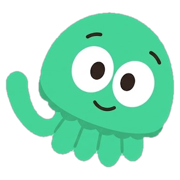
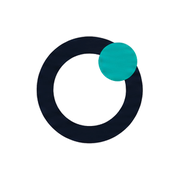
Replace jellyfish with random Medisense characters and refresh brand
- Characters (8 cutouts) replace the jellyfish; one is picked at load and a different one on every new chat
- New hop animation while the model is working; no backdrop circle behind the icon
- Faster greeting animation on the new chat page
- Ring logo mark for the collapsed sidebar, favicon and apple-touch-icon
- Minimal login page: mark, wordmark and a single sign-in button

diff --git a/frontend/src/App.jsx b/frontend/src/App.jsx
@@ -8,6 +8,7 @@ import {Icon} from '@iconify/react';
 import {AgentCreate} from './AgentCreate';
 import {Jelly} from './Jelly';
 import {Mascot} from './Mascot';
+import {shuffleCharacter} from './characters';
 import {MOCK,PREVIEW,signInWithGoogle,signOut as fbSignOut} from './firebase';
 import {useAuth} from './useAuth';
 import {api} from './api';
@@ -59,7 +60,7 @@ const {me,authError,checking,setAuthError}=useAuth({onSignedIn:m=>{setAdmin(m.ro
 const roleLabel=me?({admin:'管理員',builder:'建置者',user:'員工'}[me.role]||me.role):(admin?'管理員':'員工'),displayName=me?.name||'Paggie',accountEmail=me?.email||'paggie@example.invalid';
 const inAdmin=adminPages.includes(page);
 const [creatingAgent,setCreatingAgent]=useState(false),[sharingAgent,setSharingAgent]=useState(null);
-function go(p){setCreatingAgent(false);if(adminPages.includes(p)&&!admin){notify('此功能僅限管理員示範視角');return}setAccountMenu(false);if(p==='新對話'){setAttachments([]);setGreeting(pickGreeting());setNewChatProject(null);setLiveSession(null);setThreadId(crypto.randomUUID());setMessages([]);setRouteOpen(false);setPrompt('')}setPage(p);setFilter('');setSelectedAgent(null);setReport(null);setModal(null)}
+function go(p){setCreatingAgent(false);if(adminPages.includes(p)&&!admin){notify('此功能僅限管理員示範視角');return}setAccountMenu(false);if(p==='新對話'){shuffleCharacter();setAttachments([]);setGreeting(pickGreeting());setNewChatProject(null);setLiveSession(null);setThreadId(crypto.randomUUID());setMessages([]);setRouteOpen(false);setPrompt('')}setPage(p);setFilter('');setSelectedAgent(null);setReport(null);setModal(null)}
 function demoStep(n){setStep(n);setLogged(true);if(n<=4){setPage('新對話');setModel(n===1?'Cloud':'Auto');setPrompt(n===2?'請用一句話說明什麼是院內知識庫。':n===3?'請整理合成個案：姓名「測試病人甲」、病歷號 DEMO-000123 的交班格式。':n===4?'請查詢院內臨床指引的文件適用範圍與版本管理流程。':'');}if(n===0)setLogged(false);if(n===5){setPage('稽核記錄');setAdmin(true)}if(n===6){setPage('Agent Hub');setSelectedAgent(agents[0]);setAgentName(agents[0].name);setAgentTab('發布流程')}}
 const [liveSession,setLiveSession]=useState(null);
 const toGroup=m=>['fast','reasoning','budget','sovereign'].includes(m)?m:/auto/i.test(m)?'auto':/fast|flash/i.test(m)?'fast':/budget/i.test(m)?'budget':/院內|on-?prem|sovereign/i.test(m)?'sovereign':'reasoning';
@@ -162,7 +163,7 @@ const Badge=({children})=><span className="badge">{children}</span>;
 function openAgent(a){setSelectedAgent(a);setAgentName(a.name);setAgentModel(a.model);setAgentTab('設定');setTested(false);setSandboxReply(false)}
 function updateAgent(status){setAgents(a=>a.map(x=>x.name===selectedAgent.name?{...x,name:agentName,model:agentModel,status}:x));setSelectedAgent(a=>({...a,name:agentName,model:agentModel,status}));log('Agent '+status,agentModel,'內部','發布治理模擬',agentName);notify(`Agent 已${status==='待審核'?'送出審核':status}（模擬）`)}
 const composer=<ChatComposer prompt={prompt} setPrompt={setPrompt} send={send} busy={busy} model={model} setModel={setModel} knowledge={knowledge} setKnowledge={setKnowledge} agents={MOCK?agents:chatAgents} activeAgent={activeAgent} setActiveAgent={setActiveAgent} onConnectors={()=>go('Connectors')} onHub={()=>go('Agent Hub')} notify={notify} agentProfile={agentProfile} attachments={attachments} onAttach={addAttachments} onRemoveAttachment={removeAttachment} live={!MOCK} webOn={webSearch} onWeb={MOCK?undefined:setWebSearch} webLocked={!MOCK&&!features?.web_search} voiceOn={!MOCK&&!!features?.voice_input} options={MOCK?undefined:modelOpts||buildOptions([])}/>;
-return <><div style={{'--side-w':sideW+'px'}} className={'shell '+(collapsed?'collapsed ':'')+(page!=='新對話'?'card-theme ':'')+(compact?'compact-ui':'')}><SideResizer width={sideW} setWidth={setSideW}/><aside><div className={'quick-brand'+(collapsed?' mini':'')}>{collapsed?<button className="brand-mini" aria-label="展開側邊欄" title="展開側邊欄" onClick={()=>setCollapsed(false)}><span className="bm-jelly"><Jelly size={28} circle={false}/></span><span className="bm-open"><SidebarSimple size={22}/></span></button>:<><button className="icon-btn" aria-label="收合側邊欄" onClick={()=>setCollapsed(true)}><SidebarSimple size={19}/></button><button className="brand-link" aria-label="Medisense，開啟新對話" onClick={()=>go('新對話')}><b>Medisense</b></button></>}</div><div className="brand"><Atom size={28} weight="bold"/><b>Medisense</b><button className="icon-btn collapse" aria-label="收合側邊欄" onClick={()=>setCollapsed(!collapsed)}><SidebarSimple size={20}/></button></div>{inAdmin&&<div className="admin-side-head"><button className="admin-back" onClick={()=>go('新對話')}><ArrowLeft size={16}/>返回對話</button></div>}<nav>{(inAdmin?adminGroups.map(g=>g.title==='治理'&&!MOCK?{...g,items:[...g.items,...adminNav]}:g):navGroups).map(g=>!inAdmin&&g.title==='Agent Hub'&&!MOCK&&me&&me.role!=='user'?{...g,items:[...g.items,['沙盒測試','Sandbox',Flask]]}:g).map((g,i)=><div className={'nav-group'+(inAdmin?'':' flat')} key={i}>{g.title&&inAdmin&&<div className="nav-group-title">{g.title}</div>}{g.items.map(([label,key,I])=><button title={label} key={key} className={page===key?'active':''} onClick={()=>go(key)}><I size={18}/><span>{label}</span></button>)}</div>)}</nav>{!inAdmin&&<Recents chats={recentChats} projects={projects} actions={recents} activeId={page==='新對話'?(liveSession||threadId):null} activeProject={page==='專案'?projectId:null} collapsed={collapsed} onOpen={c=>{setNewChatProject(null);openRecent(c)}} onNewChat={()=>go('新對話')} onOpenProject={p=>{setProjectId(p.id);go('專案')}}/>}<div className="aside-bottom"><button className="sidebar-settings" onClick={()=>setModal({type:'preferences'})}><Gear size={18}/><span className="sidebar-settings-label">設定</span></button><button className="profile" onClick={()=>setModal({type:'account'})}><span className="avatar">P</span><span><b>{displayName}</b><small>{me?.department?me.department+' · ':'資訊室 · '}{roleLabel}</small></span><DotsThree size={22}/></button></div></aside><div className="main-shell"><header className="topbar quick-topbar"><div className="top-actions"><div className="account-dropdown"><button className="account-trigger" aria-expanded={accountMenu} onClick={()=>setAccountMenu(!accountMenu)}>{accountEmail}<CaretDown size={13}/></button>{accountMenu&&<><button className="menu-dismiss" aria-label="關閉帳戶選單" onClick={()=>setAccountMenu(false)}/><div className="quick-account-menu"><div className="account-info"><small>帳戶名稱</small><b>{accountEmail}</b></div>{admin&&<button onClick={()=>go('管理帳戶')}>管理帳戶</button>}<button onClick={()=>{setAccountMenu(false);setModal({type:'add-account'})}}><Plus size={16}/>新增另一個帳戶</button><button onClick={()=>{setAccountMenu(false);setModal({type:'language'})}}><Users size={16}/>{language}<CaretRight className="push" size={14}/></button><div className="menu-separator"/><button onClick={()=>{setAccountMenu(false);setModal({type:'preferences'})}}><Gear size={16}/>偏好設定</button><button onClick={()=>{setAccountMenu(false);if(MOCK)setLogged(false);else fbSignOut()}}><SignOut size={16}/>登出</button></div></>}</div></div></header>{demo&&<div className="demo-bar"><span>11/5 Demo</span><select aria-label="示範步驟" value={step} onChange={e=>demoStep(+e.target.value)}>{demoNames.map((n,i)=><option value={i} key={n}>{i}. {n}</option>)}</select><span className="muted">{step===3?'送出合成個案，查看路由明細':step===2?'送出簡單問題後，再試「完整分析院內 AI 導入策略」':step===6?'沙盒測試 → 送審 → 管理員核准 → 發布':'依畫面操作，所有流程皆為示範'}</span><button disabled={step===6} onClick={()=>demoStep(step+1)}>下一幕<ArrowRight size={17}/></button><button aria-label="關閉導覽" onClick={()=>setDemo(false)}><X/></button></div>}
+return <><div style={{'--side-w':sideW+'px'}} className={'shell '+(collapsed?'collapsed ':'')+(page!=='新對話'?'card-theme ':'')+(compact?'compact-ui':'')}><SideResizer width={sideW} setWidth={setSideW}/><aside><div className={'quick-brand'+(collapsed?' mini':'')}>{collapsed?<button className="brand-mini" aria-label="展開側邊欄" title="展開側邊欄" onClick={()=>setCollapsed(false)}><span className="bm-jelly"><img className="brand-mark" src="/brand/logo-mark.png" alt="Medisense"/></span><span className="bm-open"><SidebarSimple size={22}/></span></button>:<><button className="icon-btn" aria-label="收合側邊欄" onClick={()=>setCollapsed(true)}><SidebarSimple size={19}/></button><button className="brand-link" aria-label="Medisense，開啟新對話" onClick={()=>go('新對話')}><b>Medisense</b></button></>}</div><div className="brand"><Atom size={28} weight="bold"/><b>Medisense</b><button className="icon-btn collapse" aria-label="收合側邊欄" onClick={()=>setCollapsed(!collapsed)}><SidebarSimple size={20}/></button></div>{inAdmin&&<div className="admin-side-head"><button className="admin-back" onClick={()=>go('新對話')}><ArrowLeft size={16}/>返回對話</button></div>}<nav>{(inAdmin?adminGroups.map(g=>g.title==='治理'&&!MOCK?{...g,items:[...g.items,...adminNav]}:g):navGroups).map(g=>!inAdmin&&g.title==='Agent Hub'&&!MOCK&&me&&me.role!=='user'?{...g,items:[...g.items,['沙盒測試','Sandbox',Flask]]}:g).map((g,i)=><div className={'nav-group'+(inAdmin?'':' flat')} key={i}>{g.title&&inAdmin&&<div className="nav-group-title">{g.title}</div>}{g.items.map(([label,key,I])=><button title={label} key={key} className={page===key?'active':''} onClick={()=>go(key)}><I size={18}/><span>{label}</span></button>)}</div>)}</nav>{!inAdmin&&<Recents chats={recentChats} projects={projects} actions={recents} activeId={page==='新對話'?(liveSession||threadId):null} activeProject={page==='專案'?projectId:null} collapsed={collapsed} onOpen={c=>{setNewChatProject(null);openRecent(c)}} onNewChat={()=>go('新對話')} onOpenProject={p=>{setProjectId(p.id);go('專案')}}/>}<div className="aside-bottom"><button className="sidebar-settings" onClick={()=>setModal({type:'preferences'})}><Gear size={18}/><span className="sidebar-settings-label">設定</span></button><button className="profile" onClick={()=>setModal({type:'account'})}><span className="avatar">P</span><span><b>{displayName}</b><small>{me?.department?me.department+' · ':'資訊室 · '}{roleLabel}</small></span><DotsThree size={22}/></button></div></aside><div className="main-shell"><header className="topbar quick-topbar"><div className="top-actions"><div className="account-dropdown"><button className="account-trigger" aria-expanded={accountMenu} onClick={()=>setAccountMenu(!accountMenu)}>{accountEmail}<CaretDown size={13}/></button>{accountMenu&&<><button className="menu-dismiss" aria-label="關閉帳戶選單" onClick={()=>setAccountMenu(false)}/><div className="quick-account-menu"><div className="account-info"><small>帳戶名稱</small><b>{accountEmail}</b></div>{admin&&<button onClick={()=>go('管理帳戶')}>管理帳戶</button>}<button onClick={()=>{setAccountMenu(false);setModal({type:'add-account'})}}><Plus size={16}/>新增另一個帳戶</button><button onClick={()=>{setAccountMenu(false);setModal({type:'language'})}}><Users size={16}/>{language}<CaretRight className="push" size={14}/></button><div className="menu-separator"/><button onClick={()=>{setAccountMenu(false);setModal({type:'preferences'})}}><Gear size={16}/>偏好設定</button><button onClick={()=>{setAccountMenu(false);if(MOCK)setLogged(false);else fbSignOut()}}><SignOut size={16}/>登出</button></div></>}</div></div></header>{demo&&<div className="demo-bar"><span>11/5 Demo</span><select aria-label="示範步驟" value={step} onChange={e=>demoStep(+e.target.value)}>{demoNames.map((n,i)=><option value={i} key={n}>{i}. {n}</option>)}</select><span className="muted">{step===3?'送出合成個案，查看路由明細':step===2?'送出簡單問題後，再試「完整分析院內 AI 導入策略」':step===6?'沙盒測試 → 送審 → 管理員核准 → 發布':'依畫面操作，所有流程皆為示範'}</span><button disabled={step===6} onClick={()=>demoStep(step+1)}>下一幕<ArrowRight size={17}/></button><button aria-label="關閉導覽" onClick={()=>setDemo(false)}><X/></button></div>}
 <main className={page==='新對話'?'chat-page':'card-page'}>
 {page==='管理帳戶'&&admin&&<AdminHome groups={adminGroups.map(g=>g.title==='治理'&&!MOCK?{...g,items:[...g.items,...adminNav]}:g)} go={go} account={accountEmail} orgName={accountName}/>}
 {MOCK&&page==='Model Routing'&&admin&&<Routing config={routing} onLog={log} onPublish={value=>{setRouting(value);log('Routing 設定發布','—','內部','發布至原型工作階段',`版本 v${value.version}`);notify('已發布示範路由設定，可到新對話測試')}}/>}
@@ -185,7 +186,7 @@ return <><div style={{'--side-w':sideW+'px'}} className={'shell '+(collapsed?'co
 {!MOCK&&<Suspense fallback={<p className="muted small">載入中…</p>}>{page==='Agent Hub'&&<AgentsApp key="hub" kind="agent" me={me} notify={notify} onChat={a=>{setActiveAgent(a.name);go('新對話')}}/>}{page==='Flows'&&<AgentsApp key="flows" kind="flow" me={me} notify={notify} onChat={()=>{}}/>}{page==='Sandbox'&&<BkApp key="sandbox" me={me} initial="/sandbox" go={go} notify={notify}/>}{page==='Connectors'&&<ConnectorsPage me={me} notify={notify}/>}{page==='空間'&&<SpacesPage me={me} notify={notify}/>}{page==='Skill'&&<SkillsPage me={me} notify={notify}/>}{page==='Schedule'&&<SchedulesPage me={me} notify={notify}/>}{page==='Groups'&&<GroupsPage me={me} notify={notify}/>}{page==='Model'&&<ModelRegistryPage me={me} notify={notify}/>}{page==='Model Routing'&&<RouterPage me={me} notify={notify}/>}{page==='Security Control'&&<SecurityLive me={me} notify={notify}/>}{page==='稽核記錄'&&<AuditLive me={me} notify={notify}/>}{page==='Users'&&<UsersPage me={me} notify={notify} goAudit={e=>{go('稽核記錄')}}/>}{page==='Roles'&&<RolesPage me={me} notify={notify}/>}{page==='Monitoring'&&<BkApp key="monitoring" me={me} initial="/monitoring" go={go} notify={notify}/>}</Suspense>}{MOCK&&page==='Skill'&&<SkillPage/>}{MOCK&&page==='Schedule'&&<SchedulePage/>}{MOCK&&page==='Model'&&<ModelPage/>}{MOCK&&page==='Security Control'&&<SecurityPage/>}{MOCK&&page==='Connectors'&&<><div className="page-heading"><h1><Plugs/>Integrations</h1><Btn primary onClick={()=>setModal({type:'connector',name:'Remote MCP'})}><Plus/>新增連接器</Btn></div><p className="subtitle">連接常用工具與平台，在授權範圍內完成工作。</p><section className="integration-intro"><div><span className="intro-label">連接你的工作</span><h2>工具相連，協作更自然。</h2><p>將訊息、文件與院內系統整合至同一個工作入口。</p><button className="btn primary" onClick={()=>{setConnectorFilter('全部');setFilter('');notify('已顯示所有連接器')}}>探索所有連接器</button></div><img className="integration-banner-art" src="/assets/medisense-integrations-banner.png" alt="Medisense 原子標誌串連文件、訊息、行事曆與醫療系統"/></section><div className="toolbar connector-toolbar"><Search value={filter} onChange={setFilter} placeholder="搜尋連接器"/><div className="tabs">{['全部','已授權','待核准'].map(t=><button key={t} className={connectorFilter===t?'selected':''} onClick={()=>setConnectorFilter(t)}>{t}</button>)}</div></div><div className="section-heading"><h2>工作工具與院內系統</h2><span className="muted small">選擇卡片以檢視授權與資料範圍</span></div><div className="connector-list">{connectorNames.filter(n=>n.toLowerCase().includes(filter.toLowerCase())&&(connectorFilter==='已授權'?connections[n]?.includes('已授權'):connectorFilter==='待核准'?connections[n]?.includes('待'):true)).map(n=><button key={n} className="connector-row" onClick={()=>setModal({type:'connector',name:n})}><span className="connector-icon">{brandIcons[n]?<Icon icon={brandIcons[n]} width={31} height={31}/>:n==='HIS 核心系統'?<House size={29}/>:n==='Webhook'?<Lightning size={29}/>:<Plugs size={29}/>}</span><span><h3>{n}</h3><p>{descs[connectorNames.indexOf(n)]}</p><small className={connections[n]?'violet':'muted'}>{connections[n]||'尚未授權'}</small></span>{connections[n]?<CaretRight className="push"/>:<Plus className="push"/>}</button>)}</div><div className="notice"><ShieldCheck/>所有連接狀態均為模擬，尚未取得外部系統授權或存取任何資料。</div></>}
 {MOCK&&page==='稽核記錄'&&admin&&<><div className="page-heading"><h1><ClockCounterClockwise/>稽核記錄</h1><Btn primary disabled={!admin} onClick={exportAudit}><Download/>匯出 CSV</Btn></div><p className="subtitle">追溯每一次操作、模型選擇與資料處置。</p>{!admin?<section className="panel access"><Lock size={36}/><h2>此頁面需要稽核權限</h2><p>切換管理員示範視角，以查看合成稽核資料。</p><Btn primary onClick={()=>setAdmin(true)}>切換管理員示範視角</Btn></section>:<><div className="audit-overview"><button className="panel audit-card" onClick={()=>{setEventFilter('全部事件');setLevelFilter('全部分級')}}><span className="tile"><ClockCounterClockwise/></span><span className="muted small">使用活動</span><strong>{audit.length}</strong><small>合成事件紀錄</small></button><button className="panel audit-card" onClick={()=>setEventFilter('模型呼叫')}><span className="tile"><Lightning/></span><span className="muted small">模型呼叫</span><strong>{audit.filter(a=>a.event==='模型呼叫').length}</strong><small>檢視路由決策</small></button><button className="panel audit-card" onClick={()=>setLevelFilter('敏感')}><span className="tile"><ShieldCheck/></span><span className="muted small">敏感資料處置</span><strong>{audit.filter(a=>a.level==='敏感').length}</strong><small>示範偵測與地端路由</small></button></div><div className="audit-storage panel"><span className="tile"><ShieldCheck/></span><div><b>地端 Audit Log</b><p>示範儲存位置：院內日誌伺服器 · 尚未實際連線</p></div><button className="text-button push" onClick={()=>setModal({type:'retention'})}>完整性與留存政策<CaretRight/></button></div><div className="audit-filters"><Search value={filter} onChange={setFilter} placeholder="搜尋使用者、模型或事件"/><input aria-label="稽核日期" type="date" value={dateFilter} onChange={e=>setDateFilter(e.target.value)}/><select aria-label="事件篩選" value={eventFilter} onChange={e=>setEventFilter(e.target.value)}>{['全部事件',...new Set(audit.map(a=>a.event))].map(n=><option key={n}>{n}</option>)}</select><select aria-label="科別篩選" value={deptFilter} onChange={e=>setDeptFilter(e.target.value)}>{['全部科別','資訊室','藥劑部','心臟科'].map(n=><option key={n}>{n}</option>)}</select><select aria-label="分級篩選" value={levelFilter} onChange={e=>setLevelFilter(e.target.value)}>{['全部分級','內部','敏感'].map(n=><option key={n}>{n}</option>)}</select></div><div className="table-header"><span>{filteredAudit.length} 筆合成紀錄</span><span><Lock size={14}/>識別資料已遮罩</span></div><div className="panel table-wrap"><table><thead><tr>{['時間 / 日期','使用者 / 科別','事件','資料分級','模型','內容摘要',''].map((n,i)=><th key={i}>{n}</th>)}</tr></thead><tbody>{filteredAudit.map(a=><tr key={a.id} onClick={()=>setModal({type:'audit',data:a})}><td>{a.time}<small>{date}</small></td><td>{a.user}<small>{a.dept}</small></td><td>{a.event}</td><td><Badge>{a.level}</Badge></td><td>{a.model}</td><td className="truncate">{a.query}</td><td><CaretRight/></td></tr>)}</tbody></table>{!filteredAudit.length&&<div className="empty">沒有符合條件的紀錄。請調整篩選或開始一段示範對話。</div>}</div><p className="muted small">稽核來源：瀏覽器記憶體 · 重新整理後重置。未寫入地端日誌、未驗證完整性或留存政策。</p></>}</>}
 </main></div></div>
-{!logged&&<div className="login-screen"><div className="login-brand"><Jelly size={34} circle={false}/>Medisense</div><div className="login-content"><Badge>Enterprise AI Employee Portal</Badge><h1>讓專業，專注於更重要的事。</h1><p>你的模型、知識與工作，在同一個安全治理入口。</p><section className="login-box">{MOCK?<><h2>歡迎，Paggie</h2><p>使用院內帳號，開啟你的 AI 工作空間。</p><div className="identity"><span className="avatar">P</span><div><b>Paggie</b><small>資訊室 · 員工 · 合成身分</small></div></div><Btn primary onClick={()=>{setLogged(true);log('示範登入');if(demo&&step===0)notify('身分已載入，點選下一幕開始示範')}}><Lock/>透過院內 SSO 登入（示範）<ArrowRight/></Btn><small>此為登入模擬，未連接 AD / SSO。</small></>:<><h2>歡迎使用 Medisense</h2><p>使用院內 Google Workspace 帳號登入。</p>{checking?<p className="muted small">正在確認身分…</p>:<Btn primary onClick={()=>{setAuthError('');signInWithGoogle().catch(e=>setAuthError(e.message))}}><Lock/>使用 Google 登入<ArrowRight/></Btn>}{authError&&<p className="login-error" role="alert">{authError}</p>}<small>身分驗證由 Firebase Auth 處理；權限由平台後端依角色決定。</small></>}</section></div><span className="login-foot">示範環境 · 僅使用合成資料 · 未連接正式系統</span></div>}
+{!logged&&<div className="lg-screen"><div className="lg-center"><div className="lg-brand"><img className="lg-mark" src="/brand/logo-mark.png" alt=""/><b>Medisense</b></div>{MOCK?<Btn primary onClick={()=>{setLogged(true);log('示範登入');if(demo&&step===0)notify('身分已載入，點選下一幕開始示範')}}>登入<ArrowRight/></Btn>:checking?<p className="lg-note">正在確認身分…</p>:<Btn primary onClick={()=>{setAuthError('');signInWithGoogle().catch(e=>setAuthError(e.message))}}>登入<ArrowRight/></Btn>}{authError&&<p className="login-error" role="alert">{authError}</p>}</div></div>}
 {modal&&<div className="modal-backdrop" onMouseDown={e=>{if(e.target===e.currentTarget)setModal(null)}}><section className={'modal '+(['space','connector'].includes(modal.type)?'wide':'')} role="dialog" aria-modal="true" aria-label="詳細內容"><button className="modal-close icon-btn" aria-label="關閉視窗" onClick={()=>setModal(null)}><X size={22}/></button>
 {modal.type==='reply'&&<><Badge>模擬回覆</Badge><h2>{modal.name}</h2><p className="muted">{modal.name.includes('心臟')?'下午會議資料已更新，請確認討論重點。':'請確認 11/5 課程參加名單。'}</p><textarea autoFocus rows={5} placeholder="輸入回覆…" value={reply} onChange={e=>setReply(e.target.value)}/><div className="modal-actions"><Btn onClick={()=>setReply('收到，已確認資料，謝謝。')}>插入建議回覆</Btn><Btn primary disabled={!reply.trim()} onClick={()=>{setReplied(a=>[...new Set([...a,modal.name])]);log('訊息回覆','—','內部','模擬回覆，未對外傳送',modal.name);setModal(null);notify('已完成模擬回覆，未傳送郵件或訊息')}}>送出模擬回覆<ArrowRight/></Btn></div></>}
 {modal.type==='account'&&<><h2>帳號設定</h2><div className="identity"><span className="avatar">P</span><div><b>Paggie</b><small>資訊室 · paggie@example.invalid</small></div></div><p>身分來源：院內 AD（模擬）</p><p>權限角色：{admin?'管理員':'員工'} · RBAC / ABAC 未實際驗證</p>{admin&&<Btn onClick={()=>go('管理帳戶')}>管理帳戶</Btn>}<Btn onClick={()=>setModal({type:'preferences'})}>偏好設定</Btn><Btn onClick={()=>{setLogged(false);setModal(null)}}><SignOut/>登出</Btn></>}

diff --git a/frontend/src/welcome.css b/frontend/src/welcome.css
@@ -1,37 +1,18 @@
-/* New-conversation opening: jellyfish peeks, blinks twice, brows hop twice, swims to the middle and smiles; while the greeting
-   blurs in letter by letter (Qwen-like), starting on the same frame as the jellyfish. The composer is there from the first frame. Total ~3.4s. */
-.ji{position:relative;display:inline-block;border-radius:50%;background:#f4f4f4;overflow:hidden;flex-shrink:0}
-.ji-fig{position:absolute;inset:8%;display:block;animation:ji-swim 4s cubic-bezier(.4,0,.2,1) both}
-.ji-float{position:absolute;inset:0;display:block;animation:ji-bob 3.2s ease-in-out 4.1s infinite}
-.ji-float img,.ji-float svg{position:absolute;inset:0;width:100%;height:100%;user-select:none;pointer-events:none}
-.ji-float img{object-fit:contain}
-.ji-lid{transform-box:fill-box;transform-origin:50% 0;transform:scaleY(0);animation:ji-blink .34s ease-in-out .95s 2 both}
-.ji-brows{animation:ji-hop .38s cubic-bezier(.3,1.6,.5,1) 1.95s 2 both}
-.ji-mouth{stroke-dasharray:1 1;stroke-dashoffset:0;animation:ji-smile .7s cubic-bezier(.5,0,.25,1) 3.5s both}
-@keyframes ji-swim{0%{transform:translateY(85%)}14%{transform:translateY(42%)}58%{transform:translateY(42%)}68%{transform:translateY(46%)}86%{transform:translateY(-5%)}100%{transform:translateY(0)}}
-@keyframes ji-blink{0%,100%{transform:scaleY(0)}45%,60%{transform:scaleY(1.04)}}
-@keyframes ji-hop{0%,100%{transform:translateY(0)}45%{transform:translateY(-9px)}}
-@keyframes ji-smile{from{stroke-dashoffset:0}to{stroke-dashoffset:-1}}
-@keyframes ji-bob{0%,100%{transform:translateY(0)}50%{transform:translateY(-3.5%)}}
-
+/* New-conversation opening: the character pops in while the greeting blurs in letter by letter (Qwen-like). */
 .wl-title{display:flex;justify-content:center;flex-wrap:wrap}
-.wl-char{display:inline-block;white-space:pre;opacity:0;animation:wl-char .8s cubic-bezier(.2,.7,.2,1) calc(var(--i)*150ms) both}
-@keyframes wl-char{from{opacity:0;transform:translateY(16px);filter:blur(8px)}to{opacity:1;transform:none;filter:blur(0)}}
+.wl-char{display:inline-block;white-space:pre;opacity:0;animation:wl-char .4s cubic-bezier(.2,.7,.2,1) calc(var(--i)*35ms) both}
+@keyframes wl-char{from{opacity:0;transform:translateY(8px);filter:blur(4px)}to{opacity:1;transform:none;filter:blur(0)}}
 @media(prefers-reduced-motion:reduce){
-  .ji-fig,.ji-float,.ji-lid,.ji-brows,.wl-char{animation:none}
-  .ji-mouth{stroke-dashoffset:-1;animation:none}.wl-char{opacity:1}
+  .wl-char,.mcw-fig{animation:none}.wl-char{opacity:1}
 }
 
-/* ===== click: the jellyfish becomes a doctor / a nurse and jumps out of the circle (keyframes of the reference page) ===== */
+/* ===== today's character: pops in, bobs, hops when clicked ===== */
 .mcw{--s:clamp(.65px,.048828125vw,1px);--sz:calc(166*var(--s));position:relative;width:var(--sz);height:var(--sz);margin:0 auto;cursor:pointer;-webkit-tap-highlight-color:transparent;border-radius:50%}
 .mcw:focus-visible{outline:2px solid #239660;outline-offset:6px}
-.mcw>.ji{display:block;position:relative;z-index:1;background:transparent}
-.ji.settled .ji-fig,.ji.settled .ji-lid,.ji.settled .ji-brows{animation:none}.ji.settled .ji-mouth{stroke-dashoffset:-1;animation:none}.ji.settled .ji-float{animation-delay:0s}
-.mcw-circle{position:absolute;inset:0;border-radius:50%;background:#f4f4f4;transition:transform .5s,opacity .5s}
-.mcw[data-out=true] .mcw-circle{transform:scale(.85);opacity:.6}
-.mcw-fig{position:absolute;inset:calc(-8*var(--s));z-index:2;animation:mcw-jump .75s cubic-bezier(.2,.7,.3,1) both,mcw-outfloat 3s .75s ease-in-out infinite}
-.mcw-sprite{display:block;width:100%;height:100%;background-repeat:no-repeat;background-size:contain;background-position:center}
-@keyframes mcw-jump{0%{transform:translate(0,0) scale(1)}25%{transform:translateY(10px) scale(1.08,.88)}65%{transform:translate(22px,-75px) scale(1.25) rotate(-7deg)}100%{transform:translate(32px,-38px) scale(1.23) rotate(3deg)}}
-@keyframes mcw-outfloat{0%,100%{transform:translate(32px,-38px) scale(1.23) rotate(3deg)}50%{transform:translate(32px,-45px) scale(1.23) rotate(-3deg)}}
-@media(prefers-reduced-motion:reduce){.mcw-fig{animation:none;transform:translate(32px,-38px) scale(1.23)}}
+.mcw-fig{position:absolute;inset:0;display:flex;align-items:flex-end;justify-content:center;animation:mcw-pop .9s cubic-bezier(.2,.8,.3,1.2) both,mcw-bob 3.2s ease-in-out .9s infinite}
+.mcw-fig[data-hop=true]{animation:mcw-hop .6s cubic-bezier(.3,1.4,.5,1) both,mcw-bob 3.2s ease-in-out .6s infinite}
+.mcw-fig img{max-width:100%;max-height:100%;object-fit:contain;user-select:none;pointer-events:none;filter:drop-shadow(0 8px 10px rgba(60,80,120,.16))}
+@keyframes mcw-pop{0%{transform:translateY(40%) scale(.5);opacity:0}60%{opacity:1}100%{transform:none;opacity:1}}
+@keyframes mcw-hop{0%{transform:none}35%{transform:translateY(-22%) scale(.96,1.06) rotate(-4deg)}70%{transform:translateY(0) scale(1.06,.94)}100%{transform:none}}
+@keyframes mcw-bob{0%,100%{transform:translateY(0)}50%{transform:translateY(-4%)}}
 .welcome .mcw{margin-bottom:6px}

diff --git a/frontend/src/styles.css b/frontend/src/styles.css
@@ -262,21 +262,20 @@ h1,h2{letter-spacing:-.02em}
 .panel,.card-page .panel{border-color:var(--hair);border-radius:16px;box-shadow:none}
 .login-screen{background:#fbfbfb}.login-box{border-radius:22px;border-color:var(--hair);box-shadow:0 12px 40px #0000000a}
 
-/* The jellyfish: bell and tentacles are two layers split at the rim, so they can move separately */
+/* The Medisense character: a clean cutout, no backdrop */
 .jelly{display:inline-block;position:relative;flex-shrink:0;vertical-align:middle}
-.jelly-circle{border-radius:50%;background:#ececef}
-.jelly-body{position:absolute;inset:8%;display:block}
-.jelly:not(.jelly-circle) .jelly-body{inset:0}
+.jelly-circle{background:none}
+.jelly-body{position:absolute;inset:0;display:block}
 .jelly img{position:absolute;inset:0;width:100%;height:100%;object-fit:contain;user-select:none;pointer-events:none}
-.jelly-top{clip-path:inset(0 0 36% 0);transform-origin:50% 50%}
-.jelly-bottom{clip-path:inset(62% 0 0 0);transform-origin:50% 62%}
-.jelly.swim .jelly-body{animation:jelly-drift 2.4s ease-in-out infinite}
-.jelly.swim .jelly-top{animation:jelly-pulse 1.4s cubic-bezier(.45,0,.35,1) infinite}
-.jelly.swim .jelly-bottom{animation:jelly-sway 1.4s ease-in-out infinite}
-@keyframes jelly-drift{0%,100%{transform:translateY(7%) rotate(-5deg)}50%{transform:translateY(-8%) rotate(5deg)}}
-@keyframes jelly-pulse{0%{transform:scale(1,1)}28%{transform:scale(.9,1.1)}62%{transform:scale(1.06,.95)}100%{transform:scale(1,1)}}
-@keyframes jelly-sway{0%{transform:skewX(0) scaleY(1)}28%{transform:skewX(-9deg) scaleY(1.1)}62%{transform:skewX(9deg) scaleY(1.03)}100%{transform:skewX(0) scaleY(1)}}
-@media(prefers-reduced-motion:reduce){.jelly.swim .jelly-body,.jelly.swim .jelly-top,.jelly.swim .jelly-bottom{animation-duration:6s}}
+.jelly-top{transform-origin:50% 100%}
+/* while the model is working: the character hops with a squash on take-off and landing, over a soft shadow */
+.jelly.swim .jelly-body{inset:0 0 9% 0;animation:jelly-hop 1.1s cubic-bezier(.3,0,.4,1) infinite}
+.jelly.swim .jelly-top{animation:jelly-squash 1.1s ease-in-out infinite}
+.jelly.swim::after{content:'';position:absolute;left:22%;right:22%;bottom:0;height:8%;border-radius:50%;background:rgba(60,80,120,.16);animation:jelly-shadow 1.1s cubic-bezier(.3,0,.4,1) infinite}
+@keyframes jelly-hop{0%,100%{transform:translateY(0)}45%{transform:translateY(-16%)}}
+@keyframes jelly-squash{0%{transform:scale(1.07,.9)}18%{transform:scale(.95,1.07)}45%{transform:scale(1,1)}78%{transform:scale(1,1)}92%{transform:scale(1.07,.9)}100%{transform:scale(1.07,.9)}}
+@keyframes jelly-shadow{0%,100%{transform:scaleX(1);opacity:1}45%{transform:scaleX(.65);opacity:.5}}
+@media(prefers-reduced-motion:reduce){.jelly.swim .jelly-body,.jelly.swim .jelly-top,.jelly.swim::after{animation-duration:6s}}
 @media(max-width:800px){.welcome h1{font-size:30px}.welcome{padding-bottom:40px}}
 /* Account-management sidebar: its own header with a way back, separate from the workspace navigation */
 .admin-side-head{display:flex;flex-direction:column;gap:10px;padding:2px 2px 14px;margin-bottom:6px;border-bottom:1px solid #e6e6ea}

diff --git a/frontend/src/Jelly.jsx b/frontend/src/Jelly.jsx
@@ -1,32 +1,11 @@
 import React from 'react';
+import {useCharacter} from './characters';
 
-// The Medisense jellyfish. Two stacked copies of the same artwork, split at the bell's rim, so that
-// while the model is working the bell can pulse and the tentacles can sway independently (see .swim in styles.css).
-const SRC='/assets/medisense-jelly-square.png';
+// The Medisense character (a random one per page load, see characters.js), standing in for the old jellyfish.
+// While the model is working it bobs and squishes (see .swim in styles.css).
 export function Jelly({size=88,animated=false,circle=true,className=''}){
+  const CHARACTER=useCharacter();
   return <span className={`jelly${circle?' jelly-circle':''}${animated?' swim':''}${className?' '+className:''}`} style={{width:size,height:size}} aria-hidden="true">
-    <span className="jelly-body"><img className="jelly-bottom" src={SRC} alt="" draggable="false"/><img className="jelly-top" src={SRC} alt="" draggable="false"/></span>
-  </span>;
-}
-
-/* Opening animation for a new conversation. The artwork is one flat PNG, so the face is animated with an SVG laid over it
-   (same 360x360 box): body-coloured eyelids for the blinks, drawn eyebrows over patches that hide the painted ones,
-   and a patch over the painted smile that fades out at the end. Timeline: peek (half the head at the bottom of the
-   circle) -> 2 blinks -> 2 eyebrow hops -> swim to the middle -> smile. Plays once; reduced-motion shows the final pose. */
-const BODY='#44d497',INK='#2b2328';
-const BROW_L='M173 73 Q188 63 203 67',BROW_R='M300 103 Q316 112 320 127',MOUTH_WIPE='M181 203 Q210 228 239 205';  // covers the painted smile; its dash retracts left -> right like a swoosh
-export function JellyIntro({size=120,settled=false}){
-  return <span className={'ji'+(settled?' settled':'')} style={{width:size,height:size}} aria-hidden="true">
-    <span className="ji-fig"><span className="ji-float">
-      <img src={SRC} alt="" draggable="false"/>
-      <svg viewBox="0 0 360 360">
-        <path d={BROW_L} stroke={BODY} strokeWidth="13" strokeLinecap="round" fill="none"/>
-        <path d={BROW_R} stroke={BODY} strokeWidth="13" strokeLinecap="round" fill="none"/>
-        <g className="ji-brows"><path d={BROW_L} stroke={INK} strokeWidth="4.5" strokeLinecap="round" fill="none"/><path d={BROW_R} stroke={INK} strokeWidth="4.5" strokeLinecap="round" fill="none"/></g>
-        <path className="ji-mouth" d={MOUTH_WIPE} pathLength="1" stroke={BODY} strokeWidth="24" strokeLinecap="butt" fill="none"/>
-        <ellipse className="ji-lid" cx="184.5" cy="138" rx="45" ry="49" fill={BODY}/>
-        <ellipse className="ji-lid" cx="266" cy="167.5" rx="46" ry="50" fill={BODY}/>
-      </svg>
-    </span></span>
+    <span className="jelly-body"><img className="jelly-top" src={CHARACTER} alt="" draggable="false"/></span>
   </span>;
 }

diff --git a/frontend/src/Mascot.jsx b/frontend/src/Mascot.jsx
@@ -1,29 +1,13 @@
-import React,{useEffect,useRef,useState} from 'react';
-import {JellyIntro} from './Jelly';
-import doctor from './assets/mascot-doctor.webp';
-import nurse from './assets/mascot-nurse.webp';
+import React,{useRef} from 'react';
+import {useCharacter} from './characters';
 
-/* New conversation: the original opening plays untouched (the jellyfish peeks, blinks twice, its eyebrows hop twice, it swims to
-   the middle and smiles). Only a click changes it: the jellyfish becomes a doctor, then a nurse (alternating), jumps out of the
-   grey circle, and after 6.5 s goes back to the jellyfish. Reduced motion: no jump, the costume just appears. */
-const COSTUMES=[null,doctor,nurse],NAMES=['','醫師','護理師'];
+/* New conversation: today's character pops in, then bobs. Clicking it makes it hop again. */
 export function Mascot(){
-  const [role,setRole]=useState(0),[played,setPlayed]=useState(false);
-  const stage=useRef(null),next=useRef(1),back=useRef(null);
-  useEffect(()=>()=>clearTimeout(back.current),[]);
-  const summon=()=>{
-    clearTimeout(back.current);
-    const r=next.current;next.current=r===1?2:1;
-    setPlayed(true);setRole(r);
-    const el=stage.current;if(el){el.dataset.out='false';void el.offsetWidth;el.dataset.out='true'} // restarts the jump when clicked again
-    back.current=setTimeout(()=>setRole(0),6500);
-  };
-  const key=e=>{if(e.key==='Enter'||e.key===' '){e.preventDefault();summon()}};
-  return <div className="mcw" ref={stage} data-out={role>0} role="button" tabIndex={0} onClick={summon} onKeyDown={key}
-    aria-label={`點一下，召喚${NAMES[next.current]}造型`} title="點一下">
-    <span className="mcw-circle" aria-hidden="true"/>
-    {role===0
-      ?<JellyIntro size="var(--sz)" settled={played}/>
-      :<span className="mcw-fig" aria-hidden="true"><span className="mcw-sprite" style={{backgroundImage:`url(${COSTUMES[role]})`}}/></span>}
+  const CHARACTER=useCharacter();
+  const fig=useRef(null);
+  const hop=()=>{const el=fig.current;if(el){el.dataset.hop='false';void el.offsetWidth;el.dataset.hop='true'}};
+  const key=e=>{if(e.key==='Enter'||e.key===' '){e.preventDefault();hop()}};
+  return <div className="mcw" role="button" tabIndex={0} onClick={hop} onKeyDown={key} aria-label="點一下，打個招呼" title="點一下">
+    <span className="mcw-fig" ref={fig} aria-hidden="true"><img src={CHARACTER} alt="" draggable="false"/></span>
   </div>;
 }

diff --git a/frontend/src/radius.css b/frontend/src/radius.css
@@ -381,3 +381,18 @@ body,#root{background:transparent!important}
 .quick-composer-wrap .agent-picker{max-height:min(560px,calc(100vh - 140px))!important}
 /* ...starting just right of the agent button (which stays visible), as in Amazon Quick */
 .quick-composer-wrap .agent-anchor .agent-picker{left:calc(var(--agent-w,150px) + 22px);right:0;width:auto}
+
+/* brand mark shown when the sidebar is collapsed */
+.brand-mark{display:block;width:26px;height:26px;user-select:none}
+
+/* login: just the mark, the wordmark and one button */
+.lg-screen{position:fixed;inset:0;z-index:50;display:grid;place-items:center;background:#fff}
+.lg-center{display:flex;flex-direction:column;align-items:center;gap:44px}
+.lg-brand{display:flex;align-items:center;gap:16px}
+.lg-mark{width:52px;height:52px;display:block}
+.lg-brand b{font-family:'Plus Jakarta Sans',-apple-system,BlinkMacSystemFont,sans-serif;font-weight:700;font-size:44px;letter-spacing:-.8px;color:#1c2026;line-height:1}
+.lg-center .btn,.lg-center button{min-width:200px;justify-content:center}
+.lg-note{margin:0;font-size:13px;color:#8a8f98}
+.lg-center .login-error{margin:0;max-width:320px;text-align:center}
+.lg-center .btn,.lg-center button{font-size:17px;font-weight:600;min-height:48px;min-width:220px}
+.lg-center button svg{width:20px;height:20px}

diff --git a/frontend/src/characters.js b/frontend/src/characters.js
@@ -1,0 +1,14 @@
+import {useSyncExternalStore} from 'react';
+
+// The Medisense characters. One is picked at random when the page loads, and a different one every time a new chat starts.
+const files=import.meta.glob('./assets/characters/*.webp',{eager:true,import:'default'});
+export const CHARACTERS=Object.values(files);
+let current=CHARACTERS[Math.floor(Math.random()*CHARACTERS.length)];
+const listeners=new Set();
+export function shuffleCharacter(){
+  const others=CHARACTERS.filter(c=>c!==current);
+  if(!others.length)return;
+  current=others[Math.floor(Math.random()*others.length)];
+  listeners.forEach(l=>l());
+}
+export const useCharacter=()=>useSyncExternalStore(cb=>{listeners.add(cb);return()=>listeners.delete(cb)},()=>current);
